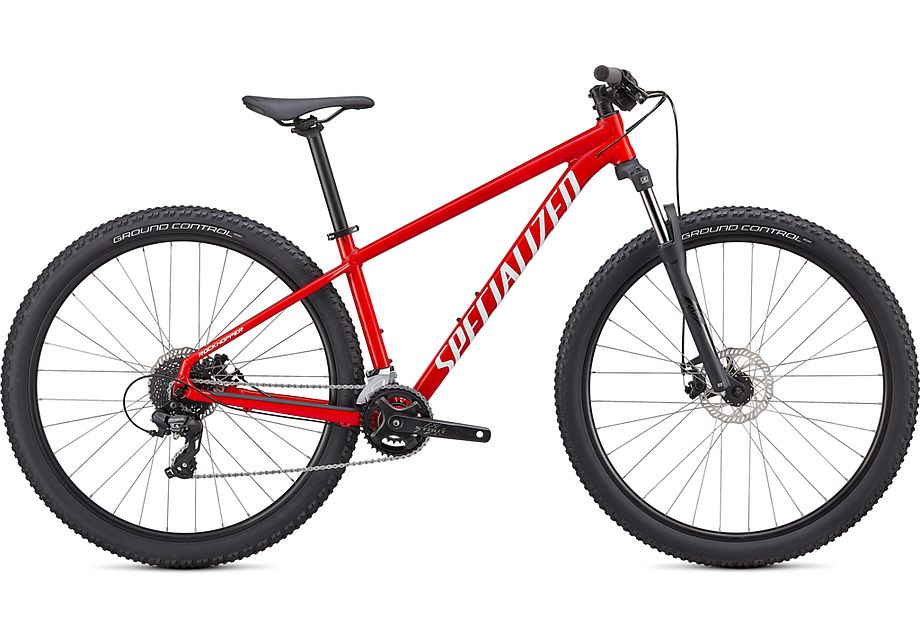
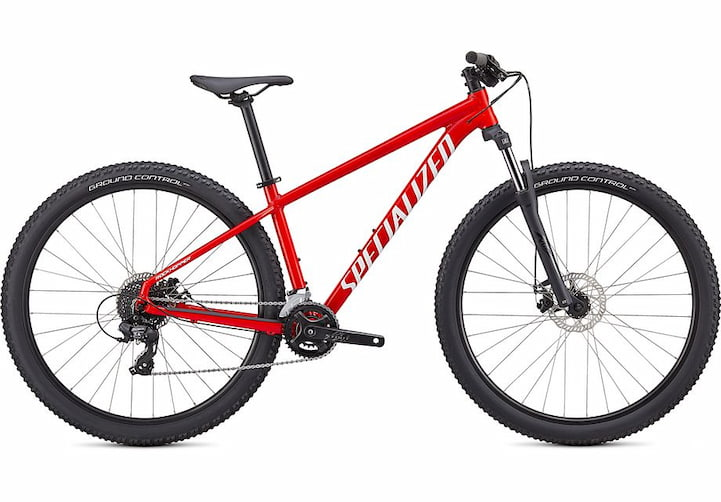
squoosh images for performance

diff --git a/javascript/productData.js b/javascript/productData.js
@@ -215,7 +215,7 @@ const products = [
     "DefendThermoHoodie",
     "Defend Thermo Hoodie",
     "Insulated, sweat-wicking hoodie for cold rides.",
-    "/images/product/dth.webp",
+    "/images/product/dth.jpg",
     [
       "Form-fitting hood fits easily under your helmet",
       "Breathable Polartec® insulation thatwicks sweat while keeping you warm",
@@ -230,7 +230,7 @@ const products = [
     "SpeedframeProFade",
     "Speedframe Pro Fade Helmet",
     "Performance focused open-face MTB helmet.",
-    "/images/product/sfpro.webp",
+    "/images/product/sfpro.jpg",
     [
       "MIPS™ reduces rotational motion and redirects forces to protect your dome",
       "Dual-density Varizorb™ EPS spread impact force",
@@ -246,7 +246,7 @@ const products = [
     "RampageProCarbon",
     "Rampage Pro Carbon Mips Helmet",
     "The MTB helmet trusted by UCI world cup champions.",
-    "/images/product/rampro.webp",
+    "/images/product/rampro.jpg",
     [
       "Designed with direct input from our elite downhill and freeride athletes",
       "MIPS™ reduces rotational motion and redirects forces to protect your dome",
@@ -261,7 +261,7 @@ const products = [
     "VueStray",
     "Vue Stray Goggles",
     "See more with pro-level Vue goggles.",
-    "/images/product/vsgog.webp",
+    "/images/product/vsgog.jpg",
     [
       "Widest field of view possible and reduces distractions from the side",
       "Turn-to-release tabs allow you to change lenses in seconds",
@@ -276,7 +276,7 @@ const products = [
     "DefendFire",
     "Defend Fire Gloves",
     "Water resistant cold weather MTB gloves with D30® armor.",
-    "/images/product/dfg.webp",
+    "/images/product/dfg.jpg",
     [
       "Brushed Cordura® top-hand material offers superior durability with a warm, comfortable, and water-resistant build",
       "Ax Suede™ slim fleece palm for warmth without sacrificing bar feel",
@@ -323,7 +323,7 @@ const products = [
     "TopFuelC",
     "Top Fuel C Frameset",
     "Top Fuel C is a carbon full suspension frameset made for a super-fast and fun down-county build.",
-    "/images/product/tfc.webp",
+    "/images/product/tfc.jpg",
     [
       "OCLV Mountain Carbon frame with Mino Link adjustable geometry",
       "Knock Block 2.0 headset",
@@ -338,7 +338,7 @@ const products = [
     "SRAMBrakeLever",
     "SRAM Code RSC HYD Brake Lever/Caliper",
     "SRAM added 15% extra piston power and 30% more volume in the lever reservoir to the Code RSC, ensuring peak performance for the full run.",
-    "/images/product/scrsc.webp",
+    "/images/product/scrsc.jpg",
     [
       "2-piece caliper construction with 4 phenolic plastic pistons",
       "Forged aluminum lever with bearing pivot and contact adjust",

diff --git a/index.html b/index.html
@@ -58,7 +58,7 @@
         <a class="header-link" href="#Shop/Bikes">BIKES</a>
         <a class="header-link" href="#Shop/Gear">GEAR</a>
         <a class="header-link" href="#Shop/Components">COMPONENTS</a>
-        <a class="header-link" href="#Contact">CONTACT</a>
+        
       </nav>
       <div class="shopping-cart">
         <i class="ph-shopping-cart-bold"></i>
